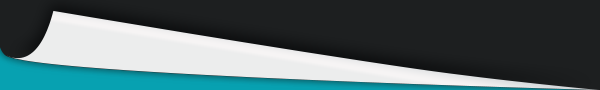
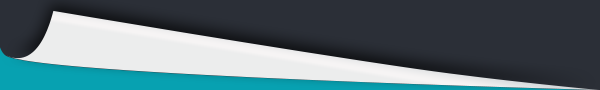
modify

Changed region(s): [[0.0, 0.5556, 0.96, 1.0]]

diff --git a/index.html b/index.html
@@ -10,7 +10,7 @@
 		img{border:none}
 		body{font: 12px/1.5 arial; background-color:#07a1b1;}
 
-		body.black{background-color : #1d1f20}
+		body.black{background-color : #2b2f37}
 
 		.clearfix:after {
   			display: block;
@@ -92,10 +92,10 @@
 		.stage-txt{
 			width: 720px;
   			margin: 0 auto;
-  			color: #fff;
+  			color: #fdd93a;
   			padding-top: 160px;
   			font-size: 50px;
-  			text-shadow: 0px 0px 10px #fff;
+  			text-shadow: 0px 0px 6px #fff;
   			font-style: italic;
 		}
 
@@ -123,20 +123,20 @@
 		#stage2-no{
 			float:right;
 			cursor : pointer;
-			-webkit-transition: text-shadow 0.2s ease;
-			-moz-transition: text-shadow 0.2s ease;
-			-ms-transition: text-shadow 0.2s ease;
-			transition: text-shadow 0.2s ease;
+			-webkit-transition: color 0.2s ease;
+			-moz-transition: color 0.2s ease;
+			-ms-transition: color 0.2s ease;
+			transition: color 0.2s ease;
 		}
 		#stage2-no{margin-left : 30px;}
 		
 		#stage2-yes:hover,
 		#stage2-no:hover{
-			text-shadow : 0px 0px 10px yellow;
+			color : #fff
 		}
 
 
-		#page{position:absolute; width:100%; top:0; left : 0; right:0;bottom:0; background-color:#1d1f20;}
+		#page{position:absolute; width:100%; top:0; left : 0; right:0;bottom:0; background-color:#2b2f37;}
 		.page-tran{-webkit-transition : transform 2s ease-in-out; -moz-transition : transform 2s ease-in-out;-ms-transition : transform 2s ease-in-out;transition : transform 2s ease-in-out;}
 		.page-circle{position:absolute; width:100px; height:100px;bottom:-20px; left : 50%; margin-left:-50px; background:url(src/img/cir.png) no-repeat 0 0 }
 		.page-bee{position:absolute;width:110px; height:110px; bottom:-120px; left : 50%; margin-left:-52px; background:url(src/img/bee.gif) no-repeat 0 0 }
@@ -227,17 +227,21 @@
 		}
 		#img-close{
 			position: absolute;
-  width: 30px;
-  height: 30px;
-  border: 5px solid #fff;
-  background: #000;
-  color: #fff;
-  text-align: center;
-  line-height: 30px;
-  border-radius: 20px;
-  right: -20px;
-  top: -20px;
-  cursor:pointer
+  			width: 30px;
+  			height: 30px;
+			right: -20px;
+  			top: -20px;
+  			border: 5px solid #fff;
+  			-webkit-border-radius: 20px;
+			-moz-border-radius : 20px;
+			-ms-border-radius : 20px;
+			border-radius : 20px;
+  			background: #000;
+  			color: #fff;
+  			text-align: center;
+  			line-height: 30px;
+			font-size : 20px;
+  			cursor:pointer
 		}
 
 		/**
@@ -411,7 +415,7 @@
 			<div id="ceb-egg" class="egg"></div>
 		</div>
 		<div class="side-bee"></div>
-		<div id="big-img-area"><img id="big-img" src="" /><span id="img-close">X</span></div>
+		<div id="big-img-area"><img id="big-img" src="" /><span id="img-close">&times;</span></div>
 
 	</div>
 
@@ -424,8 +428,6 @@
 
 			var names = ['余俊','俞阳东','华鸣飞','曹宇华','何杭军','蒙庚祥','叶琛','林国艳','吴功伟','陈葛','郑永','冯晓嵘','李丹','梁文平','戴丽君','王学成','梁贤','徐昕','宋伟','杜祖海','葛湘英','蔡移华','叶有元','黄舟','冯赟','张利岗','曹文起','罗召明','陈微','程欢','李坤','陈崇来','徐磊','邵桦','何菊霞','米娜','陈友明','蔡文娟','李桢达','曾子胜','潘文简','莫一楠','王蒴','冯大鑫','徐佳见','汪维宇','蒋敏璐','李娟','何福林','胡春涛','俞金妹','陈仕员','房立国','韩群燕','袁正兴','董洪波','戚一品','周昕伟','林海','张磊','常春明','赵宣','王书辉','刘峰雷','陶京','赵宪鹏','王雷雷','郭浩','何伟','李晨雨','林文峰','范鹏','张亮福','陈阳','金敏飞','肖兰宝','赵国军','张杰','陈建梁','林云志','陈财荣','何伟','周少华','盛廉君','饶成','王铁松','岳黎明','叶方','余军','钟晨杰','盛鑫','朱铁柱','梁翠萍','唐丽芳','吴婉婉','李萍','朱钰祥','诸国庆','陈筱丹','郭复强','丘添英','汪宝俊','郑达理','周旭锋','鲁文俊','陈克见','章文洁','王海荣','潘燕非','譚敦敏','曾光华','曹振业','徐杨清','任红阵','何双','钟宇静','魏小兰','潘轶','万真龙','万鹏','方辉','余星','武丽甜','张健','潘力','成晓雄','周佳盛','王晓明','方巧英','许庆光','王田','吴文','胡辉辉','闻尚权','洪徐伟','朱康伟','宗叶君','周煜','金玮','孙云凤','龚利丰','郭笋','金陈杰','孙刚','韦耐','王丽芳','刘云云','王统','吴耀','赵世楠','冀亮','王志强','李典茂','郑扬','刘淳猛','何金骏','郭大龙','方瑞','马俊','楼超权','余伟表','杜娟','李鹏','陈哲','杨军伟'];
 
-			/******************************************/
-			//-----------------------------------------
 			var encodeStr = "\170\155\144\55\171\161\171\55\150\167\55\152\143\146\55\172\161\143\55\172\170\172\55\153\150\55\171\156\150\55\171\161\142\55\162\170\147\55\153\150\167\55\163\171\143\55\150\172\146\55\155\164\167\55\146\155\55\171\160\55\161\154\172\55\172\150\154\55\164\154\143\55\145\150\143\55\171\172\143\55\171\171\172\55\171\171\163\55\170\167\55\143\163\143\55\142\142\154\55\155\171\143\55\171\143\171\55\171\143\154\55\162\171\143\55\171\143\172\55\172\172\146\55\172\167\147\55\171\170\171\55\142\156\143\55\162\150\147\55\172\161\144\55\153\162\163\55\171\170\170\55\153\170\154\55\161\161\167\55\154\150\143\55\152\171\154\55\164\143\147\55\144\144\147\55\155\161\143\55\172\171\143\55\152\170\167\55\171\156\154\55\172\154\171\55\163\164\155\55\171\162\150\55\170\171\143\55\162\150\55\171\172\171\55\152\150\171";
 
 			(function(){
@@ -730,6 +732,10 @@
 				hide : function(){
 					this.$el.hide();
 					maskObj.hide();
+				},
+
+				destroy : function(){
+					this.$el.remove();		  
 				}
 
 			}).init();
@@ -800,9 +806,6 @@
 
 					arr = this.usedChildren.slice(0);
 
-
-					/************************************************/
-					//-----------------------------------------------
 					// remove employee about child number
 					$.each(arr, function(n, item){
 						that.employee.splice(that.employee.indexOf(item), 1);		
@@ -956,6 +959,8 @@
 				_handleShowBegin : function(){
 					this._toggleRes(0);   
 					
+					this.$('.side-bee').remove();
+					
 					this._startShow();
 				},
 
@@ -1038,8 +1043,6 @@
 						num = i + j * 2,
 						arr;
 
-					/**********************************************/
-					//---------------------------------------------
 					// this.employee.splice(this.employee.indexOf(child), 1);
 
 					arr = this._makeRandomArr(this.employee, num - 1);
@@ -1204,6 +1207,7 @@
 				_clearDoc : function(){
 					this.$('.wrapper-inner').remove();
 					maskObj.destroy();
+					imgObj.destroy();
 					this.resultEl.remove();
 				}
 
